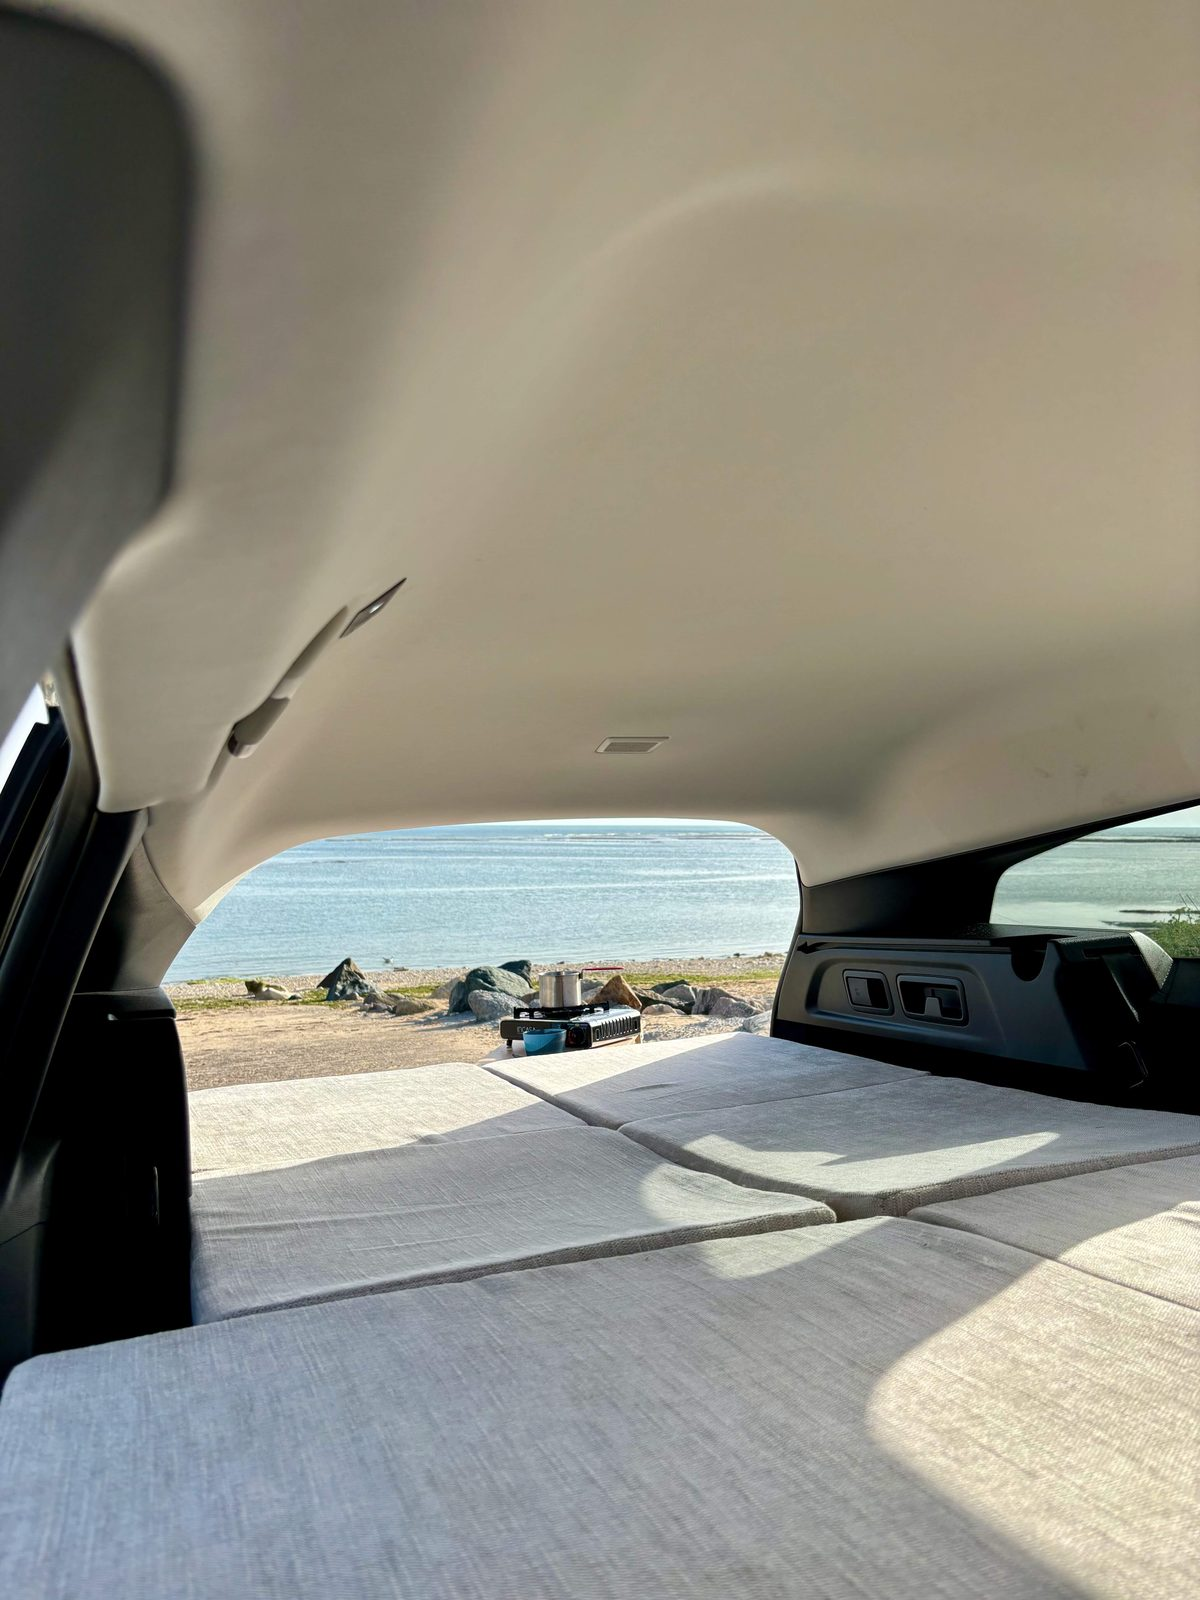
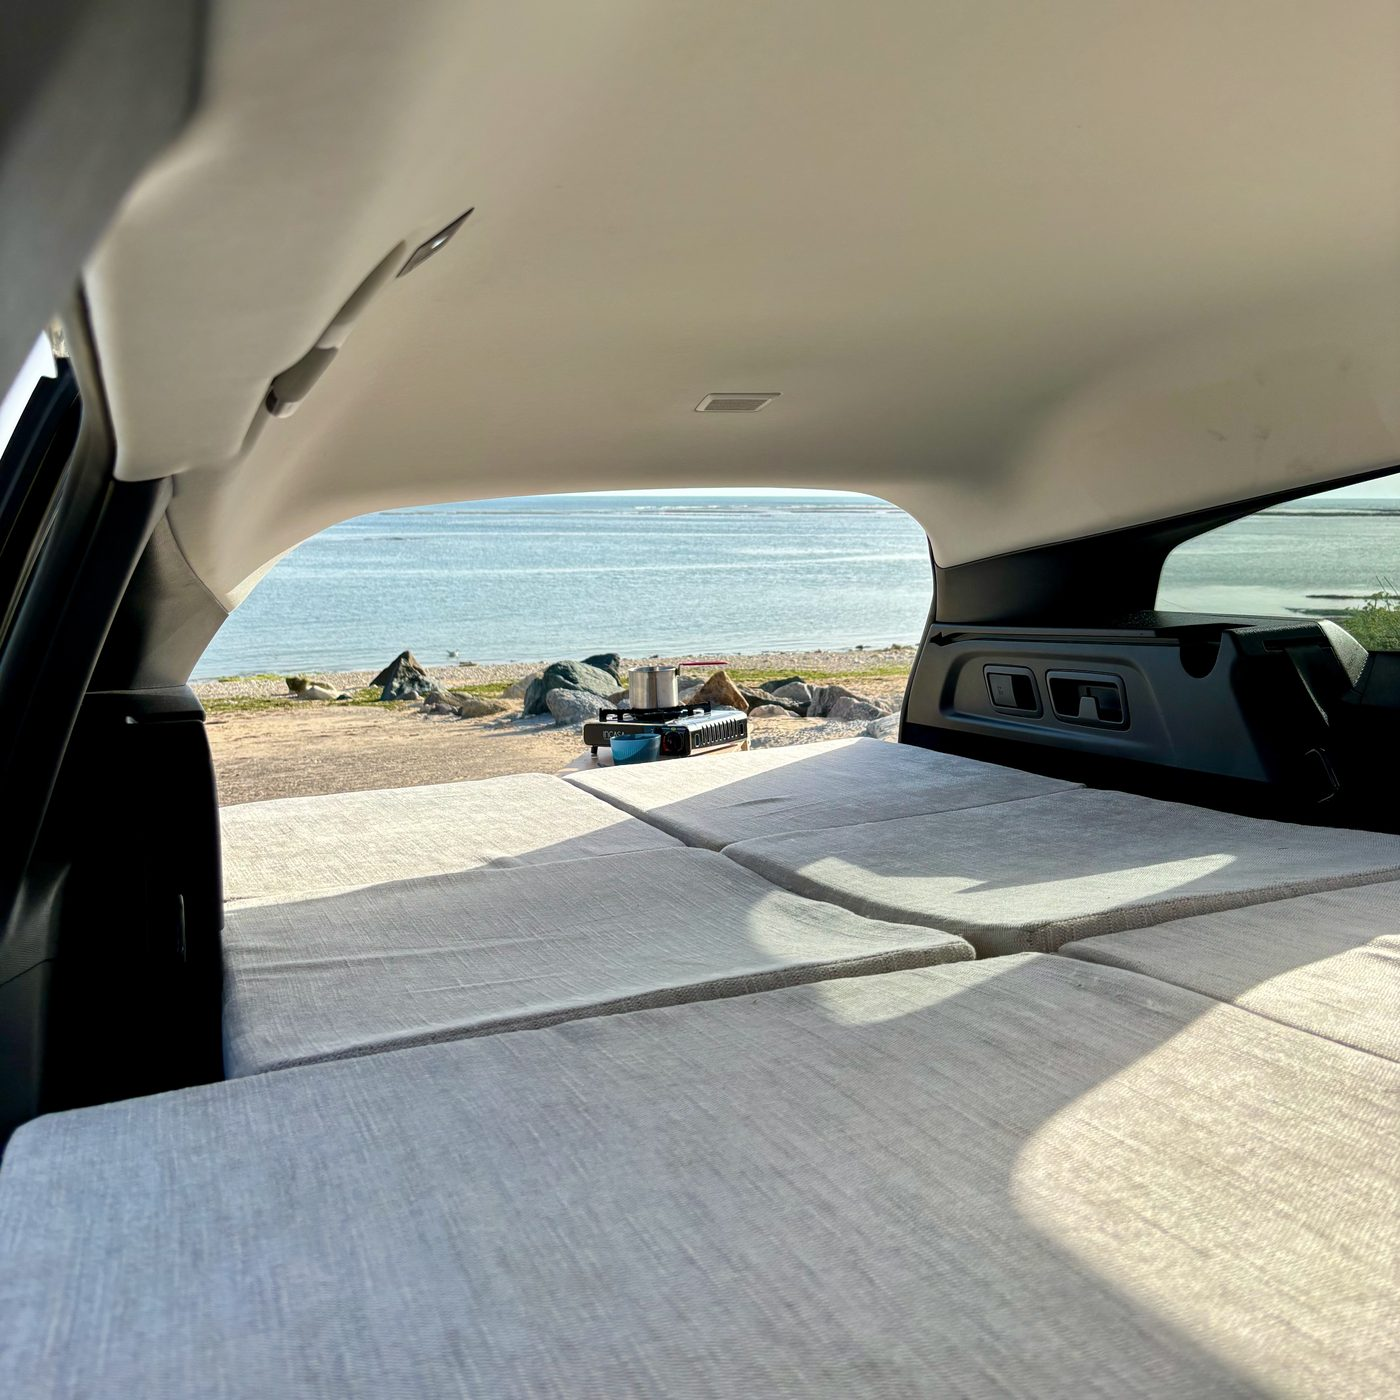
Nouvelles photos kit au format carré (remplace les .jpg, supprime les doublons .jpeg)
- Compression 1400x1400, qualité 82, ~250-400 KB chacune
- Carousel (.gallery-slide) passé en aspect-ratio 1/1 pour matcher le nouveau format

diff --git a/assets/css/style.css b/assets/css/style.css
@@ -495,7 +495,7 @@ p { margin: 0 0 1em; }
   border-radius: var(--radius-md);
   overflow: hidden;
   background: var(--color-surface-alt);
-  aspect-ratio: 3 / 4;
+  aspect-ratio: 1 / 1;
   position: relative;
   box-shadow: var(--shadow-sm);
 }
@@ -707,7 +707,7 @@ p { margin: 0 0 1em; }
 
 /* Galerie dans le split (taille plus compacte) */
 .split-media .gallery { margin: 0; }
-.split-media .gallery-slide { aspect-ratio: 3 / 4; }
+.split-media .gallery-slide { aspect-ratio: 1 / 1; }
 
 /* ========== Accessoires ========== */
 .cat-title {
